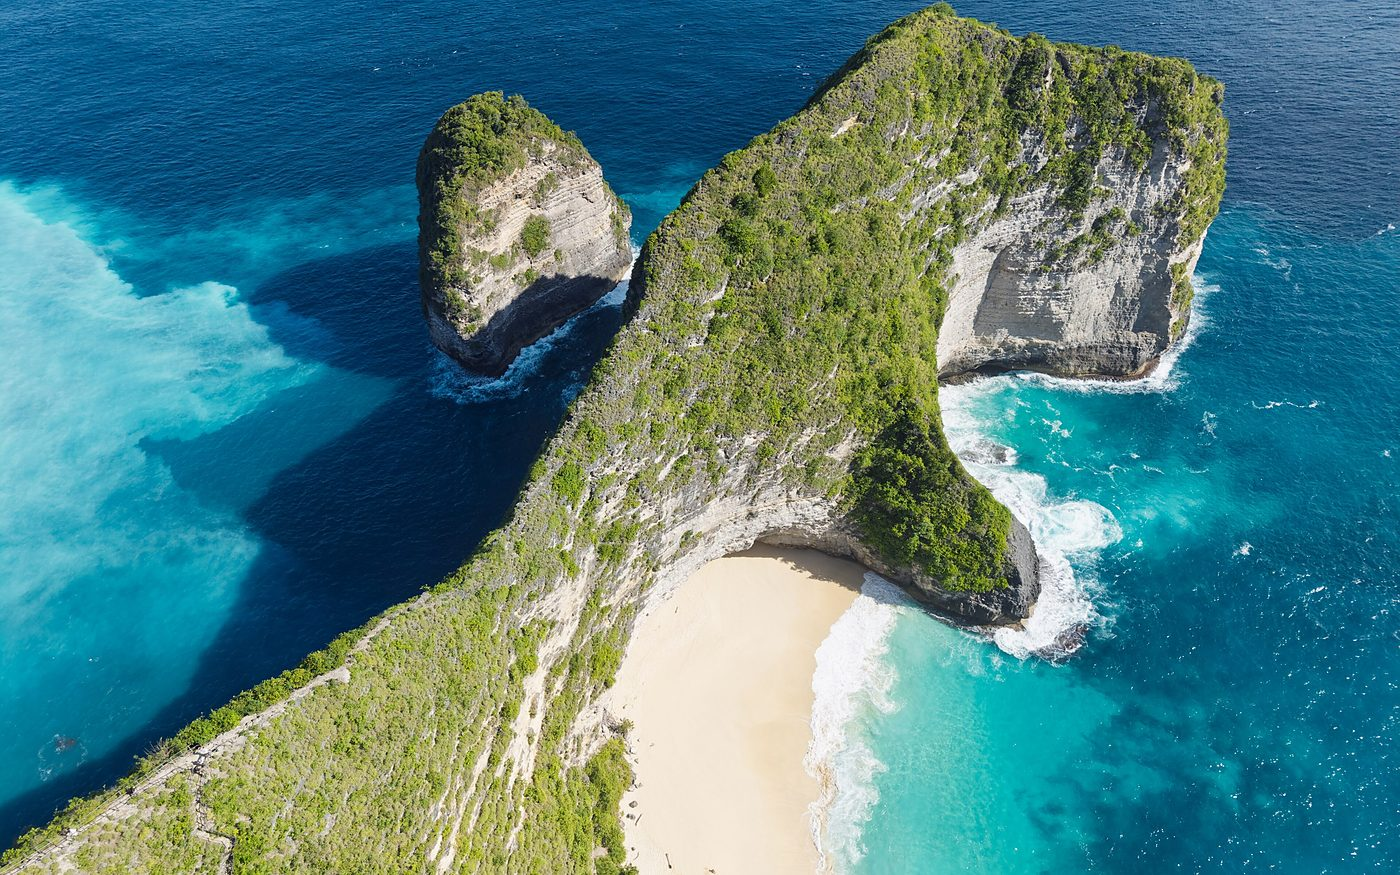
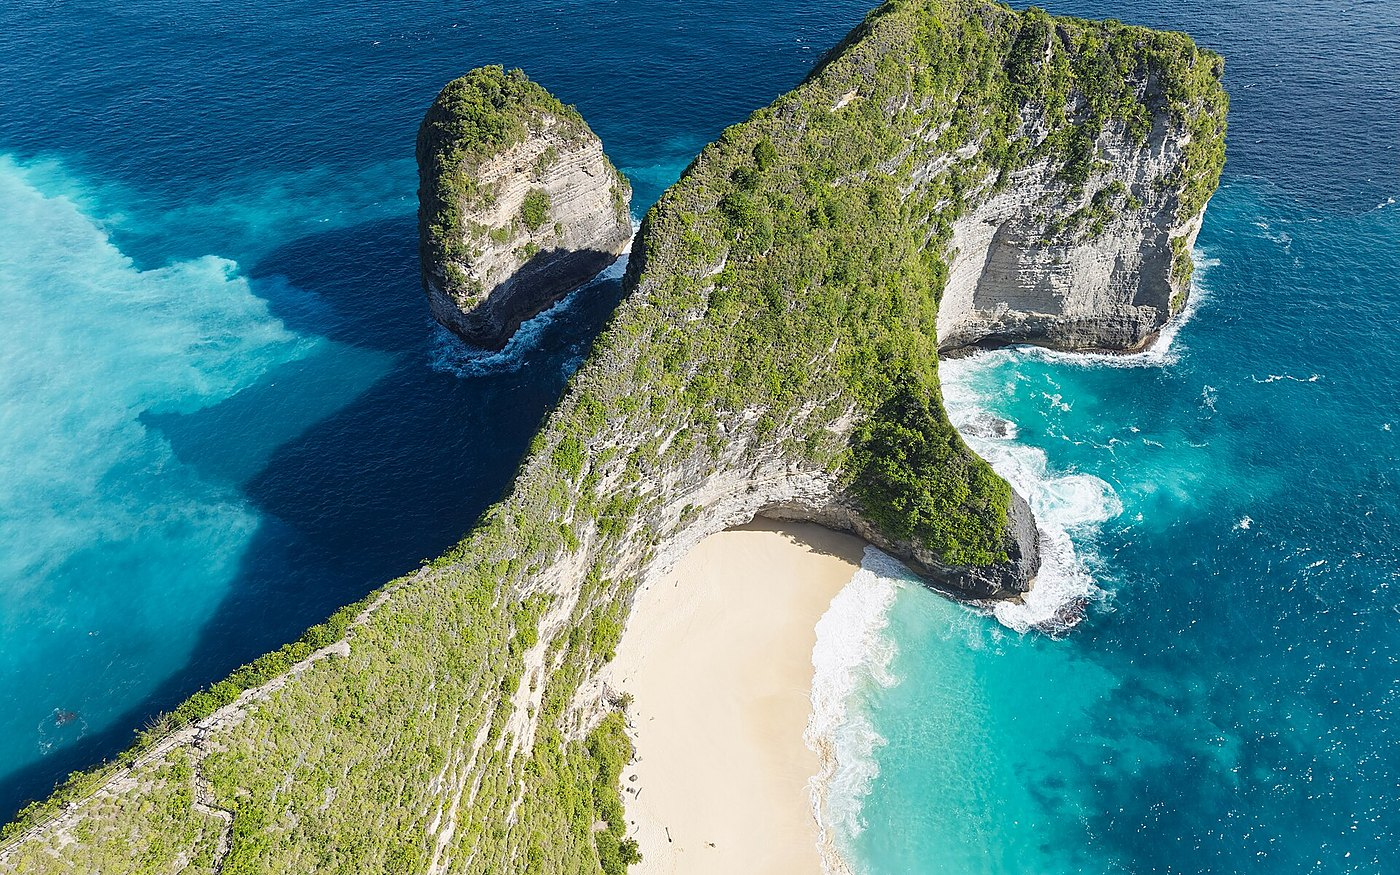
Add named Bali adventure and escape photo galleries
Include ATV, Kelingking, rafting, tubing, Diamond Beach, sea walking,
Cretya, Savaya, Amanooh, cliff bar, waterfall breakfast, and Uluwatu
with clear titles matching the Canva itinerary.

diff --git a/docs/index.html b/docs/index.html
@@ -408,7 +408,8 @@
               <p class="city__lead">Хатми сафар: digital nomad hub, hospitality business ва farewell дар тропик.</p>
               <ul class="city__points">
                 <li><strong>Бизнес:</strong> villa/resort case study ва creator economy meetup</li>
-                <li><strong>Барнома:</strong> Escape — culture, nature ва tourism paradise</li>
+                <li><strong>Барнома:</strong> ATV, rafting, tubing, Nusa Penida, sea walking</li>
+                <li><strong>Истироҳат:</strong> Cretya, Savaya, cliff bar, waterfall breakfast</li>
                 <li><strong>Гостеприимство:</strong> boutique villa / resort бо ҳавз</li>
                 <li><strong>Хӯрок:</strong> наҳорӣ + farewell dinner</li>
                 <li><strong>Трансфер:</strong> фурудгоҳ ↔ villa · private driver барои 1 рӯз</li>
@@ -416,34 +417,108 @@
               <p class="city__stay">4 шаб · spa welcome · хатми барнома</p>
             </div>
           </div>
-          <div class="city__spots">
+
+          <p class="city__spots-label reveal">Adventure · Бали</p>
+          <div class="city__spots city__spots--3">
             <figure class="city__spot reveal">
-              <img src="assets/bali/kelingking.jpg" alt="Kelingking Beach, Бали" width="1800" height="1125" loading="lazy" decoding="async" />
+              <img src="assets/bali/atv.jpg" alt="ATV Adventure, Бали" width="1400" height="875" loading="lazy" decoding="async" />
               <figcaption>
-                <span>Барнома</span>
-                <strong>Escape · Nature</strong>
-                <em>Kelingking · Nusa Penida</em>
+                <span>Adventure</span>
+                <strong>ATV Adventure</strong>
+                <em>Jungle buggy · Bali</em>
               </figcaption>
-              <div class="yt-lite" data-yt="Enl3waAo5Ac">
-                <button type="button" class="yt-lite__hit" aria-label="Видео: Kelingking Beach">
-                  <img src="https://i.ytimg.com/vi/Enl3waAo5Ac/hqdefault.jpg" alt="" loading="lazy" width="480" height="360" />
-                  <span class="yt-lite__play" aria-hidden="true"></span>
-                </button>
-              </div>
             </figure>
             <figure class="city__spot reveal">
-              <img src="assets/bali/uluwatu.jpg" alt="Uluwatu Temple, Бали" width="1800" height="1125" loading="lazy" decoding="async" />
+              <img src="assets/bali/kelingking.jpg" alt="Kelingking Beach, Nusa Penida" width="1400" height="875" loading="lazy" decoding="async" />
+              <figcaption>
+                <span>Nusa Penida</span>
+                <strong>Kelingking Beach</strong>
+                <em>T-Rex cliff · ocean view</em>
+              </figcaption>
+            </figure>
+            <figure class="city__spot reveal">
+              <img src="assets/bali/rafting.jpg" alt="Rafting, Ayung River Bali" width="1400" height="875" loading="lazy" decoding="async" />
+              <figcaption>
+                <span>Adventure</span>
+                <strong>Rafting</strong>
+                <em>Ayung River · white water</em>
+              </figcaption>
+            </figure>
+            <figure class="city__spot reveal">
+              <img src="assets/bali/tubing.jpg" alt="River Tubing, Бали" width="1400" height="875" loading="lazy" decoding="async" />
+              <figcaption>
+                <span>Adventure</span>
+                <strong>Tubing</strong>
+                <em>River tube · jungle ride</em>
+              </figcaption>
+            </figure>
+            <figure class="city__spot reveal">
+              <img src="assets/bali/diamond.jpg" alt="Diamond Beach, Nusa Penida" width="1400" height="875" loading="lazy" decoding="async" />
+              <figcaption>
+                <span>Nusa Penida</span>
+                <strong>Diamond Beach</strong>
+                <em>Viewpoint · cliffs · sea</em>
+              </figcaption>
+            </figure>
+            <figure class="city__spot reveal">
+              <img src="assets/bali/seawalk.jpg" alt="Sea Walking, Бали" width="1400" height="875" loading="lazy" decoding="async" />
+              <figcaption>
+                <span>Underwater</span>
+                <strong>Sea Walking</strong>
+                <em>Helmet dive · tropical fish</em>
+              </figcaption>
+            </figure>
+          </div>
+
+          <p class="city__spots-label reveal">Escape · Hospitality</p>
+          <div class="city__spots city__spots--3">
+            <figure class="city__spot reveal">
+              <img src="assets/bali/cretya.jpg" alt="Cretya Ubud, Бали" width="1400" height="875" loading="lazy" decoding="async" />
+              <figcaption>
+                <span>Ubud</span>
+                <strong>Cretya Ubud</strong>
+                <em>Jungle pool · day club</em>
+              </figcaption>
+            </figure>
+            <figure class="city__spot reveal">
+              <img src="assets/bali/savaya.jpg" alt="Savaya Bali, Uluwatu" width="1400" height="875" loading="lazy" decoding="async" />
+              <figcaption>
+                <span>Uluwatu</span>
+                <strong>Savaya Bali</strong>
+                <em>Cliff resort · ocean pool</em>
+              </figcaption>
+            </figure>
+            <figure class="city__spot reveal">
+              <img src="assets/bali/amanooh.jpg" alt="Amanooh valley view, Бали" width="1400" height="875" loading="lazy" decoding="async" />
+              <figcaption>
+                <span>Valley</span>
+                <strong>Amanooh</strong>
+                <em>Jungle terrace · view</em>
+              </figcaption>
+            </figure>
+            <figure class="city__spot reveal">
+              <img src="assets/bali/cliffbar.jpg" alt="Cliff Bar, Uluwatu Bali" width="1400" height="875" loading="lazy" decoding="async" />
+              <figcaption>
+                <span>Uluwatu</span>
+                <strong>Cliff Bar</strong>
+                <em>Ocean edge · surf view</em>
+              </figcaption>
+            </figure>
+            <figure class="city__spot reveal">
+              <img src="assets/bali/waterfall-breakfast.jpg" alt="Waterfall Breakfast, Бали" width="1400" height="875" loading="lazy" decoding="async" />
+              <figcaption>
+                <span>Nature</span>
+                <strong>Waterfall Breakfast</strong>
+                <em>Jungle breakfast · falls</em>
+              </figcaption>
+            </figure>
+            <figure class="city__spot reveal">
+              <img src="assets/bali/uluwatu.jpg" alt="Uluwatu Temple, Бали" width="1400" height="875" loading="lazy" decoding="async" />
               <figcaption>
                 <span>Фарҳанг</span>
-                <strong>Uluwatu</strong>
-                <em>Culture · tourism paradise</em>
+                <strong>Uluwatu Temple</strong>
+                <em>Culture · cliff temple</em>
               </figcaption>
-              <div class="yt-lite" data-yt="6ubioWeg0jE">
-                <button type="button" class="yt-lite__hit" aria-label="Видео: Ulun Danu · фарҳанг">
-                  <img src="https://i.ytimg.com/vi/6ubioWeg0jE/hqdefault.jpg" alt="" loading="lazy" width="480" height="360" />
-                  <span class="yt-lite__play" aria-hidden="true"></span>
-                </button>
-              </div>
             </figure>
           </div>
         </article>

diff --git a/index.html b/index.html
@@ -408,7 +408,8 @@
               <p class="city__lead">Хатми сафар: digital nomad hub, hospitality business ва farewell дар тропик.</p>
               <ul class="city__points">
                 <li><strong>Бизнес:</strong> villa/resort case study ва creator economy meetup</li>
-                <li><strong>Барнома:</strong> Escape — culture, nature ва tourism paradise</li>
+                <li><strong>Барнома:</strong> ATV, rafting, tubing, Nusa Penida, sea walking</li>
+                <li><strong>Истироҳат:</strong> Cretya, Savaya, cliff bar, waterfall breakfast</li>
                 <li><strong>Гостеприимство:</strong> boutique villa / resort бо ҳавз</li>
                 <li><strong>Хӯрок:</strong> наҳорӣ + farewell dinner</li>
                 <li><strong>Трансфер:</strong> фурудгоҳ ↔ villa · private driver барои 1 рӯз</li>
@@ -416,34 +417,108 @@
               <p class="city__stay">4 шаб · spa welcome · хатми барнома</p>
             </div>
           </div>
-          <div class="city__spots">
+
+          <p class="city__spots-label reveal">Adventure · Бали</p>
+          <div class="city__spots city__spots--3">
             <figure class="city__spot reveal">
-              <img src="assets/bali/kelingking.jpg" alt="Kelingking Beach, Бали" width="1800" height="1125" loading="lazy" decoding="async" />
+              <img src="assets/bali/atv.jpg" alt="ATV Adventure, Бали" width="1400" height="875" loading="lazy" decoding="async" />
               <figcaption>
-                <span>Барнома</span>
-                <strong>Escape · Nature</strong>
-                <em>Kelingking · Nusa Penida</em>
+                <span>Adventure</span>
+                <strong>ATV Adventure</strong>
+                <em>Jungle buggy · Bali</em>
               </figcaption>
-              <div class="yt-lite" data-yt="Enl3waAo5Ac">
-                <button type="button" class="yt-lite__hit" aria-label="Видео: Kelingking Beach">
-                  <img src="https://i.ytimg.com/vi/Enl3waAo5Ac/hqdefault.jpg" alt="" loading="lazy" width="480" height="360" />
-                  <span class="yt-lite__play" aria-hidden="true"></span>
-                </button>
-              </div>
             </figure>
             <figure class="city__spot reveal">
-              <img src="assets/bali/uluwatu.jpg" alt="Uluwatu Temple, Бали" width="1800" height="1125" loading="lazy" decoding="async" />
+              <img src="assets/bali/kelingking.jpg" alt="Kelingking Beach, Nusa Penida" width="1400" height="875" loading="lazy" decoding="async" />
+              <figcaption>
+                <span>Nusa Penida</span>
+                <strong>Kelingking Beach</strong>
+                <em>T-Rex cliff · ocean view</em>
+              </figcaption>
+            </figure>
+            <figure class="city__spot reveal">
+              <img src="assets/bali/rafting.jpg" alt="Rafting, Ayung River Bali" width="1400" height="875" loading="lazy" decoding="async" />
+              <figcaption>
+                <span>Adventure</span>
+                <strong>Rafting</strong>
+                <em>Ayung River · white water</em>
+              </figcaption>
+            </figure>
+            <figure class="city__spot reveal">
+              <img src="assets/bali/tubing.jpg" alt="River Tubing, Бали" width="1400" height="875" loading="lazy" decoding="async" />
+              <figcaption>
+                <span>Adventure</span>
+                <strong>Tubing</strong>
+                <em>River tube · jungle ride</em>
+              </figcaption>
+            </figure>
+            <figure class="city__spot reveal">
+              <img src="assets/bali/diamond.jpg" alt="Diamond Beach, Nusa Penida" width="1400" height="875" loading="lazy" decoding="async" />
+              <figcaption>
+                <span>Nusa Penida</span>
+                <strong>Diamond Beach</strong>
+                <em>Viewpoint · cliffs · sea</em>
+              </figcaption>
+            </figure>
+            <figure class="city__spot reveal">
+              <img src="assets/bali/seawalk.jpg" alt="Sea Walking, Бали" width="1400" height="875" loading="lazy" decoding="async" />
+              <figcaption>
+                <span>Underwater</span>
+                <strong>Sea Walking</strong>
+                <em>Helmet dive · tropical fish</em>
+              </figcaption>
+            </figure>
+          </div>
+
+          <p class="city__spots-label reveal">Escape · Hospitality</p>
+          <div class="city__spots city__spots--3">
+            <figure class="city__spot reveal">
+              <img src="assets/bali/cretya.jpg" alt="Cretya Ubud, Бали" width="1400" height="875" loading="lazy" decoding="async" />
+              <figcaption>
+                <span>Ubud</span>
+                <strong>Cretya Ubud</strong>
+                <em>Jungle pool · day club</em>
+              </figcaption>
+            </figure>
+            <figure class="city__spot reveal">
+              <img src="assets/bali/savaya.jpg" alt="Savaya Bali, Uluwatu" width="1400" height="875" loading="lazy" decoding="async" />
+              <figcaption>
+                <span>Uluwatu</span>
+                <strong>Savaya Bali</strong>
+                <em>Cliff resort · ocean pool</em>
+              </figcaption>
+            </figure>
+            <figure class="city__spot reveal">
+              <img src="assets/bali/amanooh.jpg" alt="Amanooh valley view, Бали" width="1400" height="875" loading="lazy" decoding="async" />
+              <figcaption>
+                <span>Valley</span>
+                <strong>Amanooh</strong>
+                <em>Jungle terrace · view</em>
+              </figcaption>
+            </figure>
+            <figure class="city__spot reveal">
+              <img src="assets/bali/cliffbar.jpg" alt="Cliff Bar, Uluwatu Bali" width="1400" height="875" loading="lazy" decoding="async" />
+              <figcaption>
+                <span>Uluwatu</span>
+                <strong>Cliff Bar</strong>
+                <em>Ocean edge · surf view</em>
+              </figcaption>
+            </figure>
+            <figure class="city__spot reveal">
+              <img src="assets/bali/waterfall-breakfast.jpg" alt="Waterfall Breakfast, Бали" width="1400" height="875" loading="lazy" decoding="async" />
+              <figcaption>
+                <span>Nature</span>
+                <strong>Waterfall Breakfast</strong>
+                <em>Jungle breakfast · falls</em>
+              </figcaption>
+            </figure>
+            <figure class="city__spot reveal">
+              <img src="assets/bali/uluwatu.jpg" alt="Uluwatu Temple, Бали" width="1400" height="875" loading="lazy" decoding="async" />
               <figcaption>
                 <span>Фарҳанг</span>
-                <strong>Uluwatu</strong>
-                <em>Culture · tourism paradise</em>
+                <strong>Uluwatu Temple</strong>
+                <em>Culture · cliff temple</em>
               </figcaption>
-              <div class="yt-lite" data-yt="6ubioWeg0jE">
-                <button type="button" class="yt-lite__hit" aria-label="Видео: Ulun Danu · фарҳанг">
-                  <img src="https://i.ytimg.com/vi/6ubioWeg0jE/hqdefault.jpg" alt="" loading="lazy" width="480" height="360" />
-                  <span class="yt-lite__play" aria-hidden="true"></span>
-                </button>
-              </div>
             </figure>
           </div>
         </article>

diff --git a/css/style.css b/css/style.css
@@ -554,16 +554,30 @@ p { margin: 0; }
   color: #dff59a;
   letter-spacing: 0.02em;
 }
+.city__spots-label {
+  font-family: var(--font-d);
+  font-size: 0.78rem;
+  font-weight: 800;
+  letter-spacing: 0.16em;
+  text-transform: uppercase;
+  color: var(--lime);
+  margin: 0.5rem 0 1rem;
+}
 .city__spots {
   display: grid;
   gap: 1.25rem;
   width: 100%;
+  margin-bottom: 1.75rem;
 }
+.city__spots:last-child { margin-bottom: 0; }
 @media (min-width: 700px) {
   .city__spots,
   .city__spots--4 {
     grid-template-columns: 1fr 1fr;
     gap: 1.5rem;
+  }
+  .city__spots--3 {
+    grid-template-columns: repeat(3, 1fr);
   }
 }
 .city__spot {

diff --git a/docs/css/style.css b/docs/css/style.css
@@ -554,16 +554,30 @@ p { margin: 0; }
   color: #dff59a;
   letter-spacing: 0.02em;
 }
+.city__spots-label {
+  font-family: var(--font-d);
+  font-size: 0.78rem;
+  font-weight: 800;
+  letter-spacing: 0.16em;
+  text-transform: uppercase;
+  color: var(--lime);
+  margin: 0.5rem 0 1rem;
+}
 .city__spots {
   display: grid;
   gap: 1.25rem;
   width: 100%;
+  margin-bottom: 1.75rem;
 }
+.city__spots:last-child { margin-bottom: 0; }
 @media (min-width: 700px) {
   .city__spots,
   .city__spots--4 {
     grid-template-columns: 1fr 1fr;
     gap: 1.5rem;
+  }
+  .city__spots--3 {
+    grid-template-columns: repeat(3, 1fr);
   }
 }
 .city__spot {
